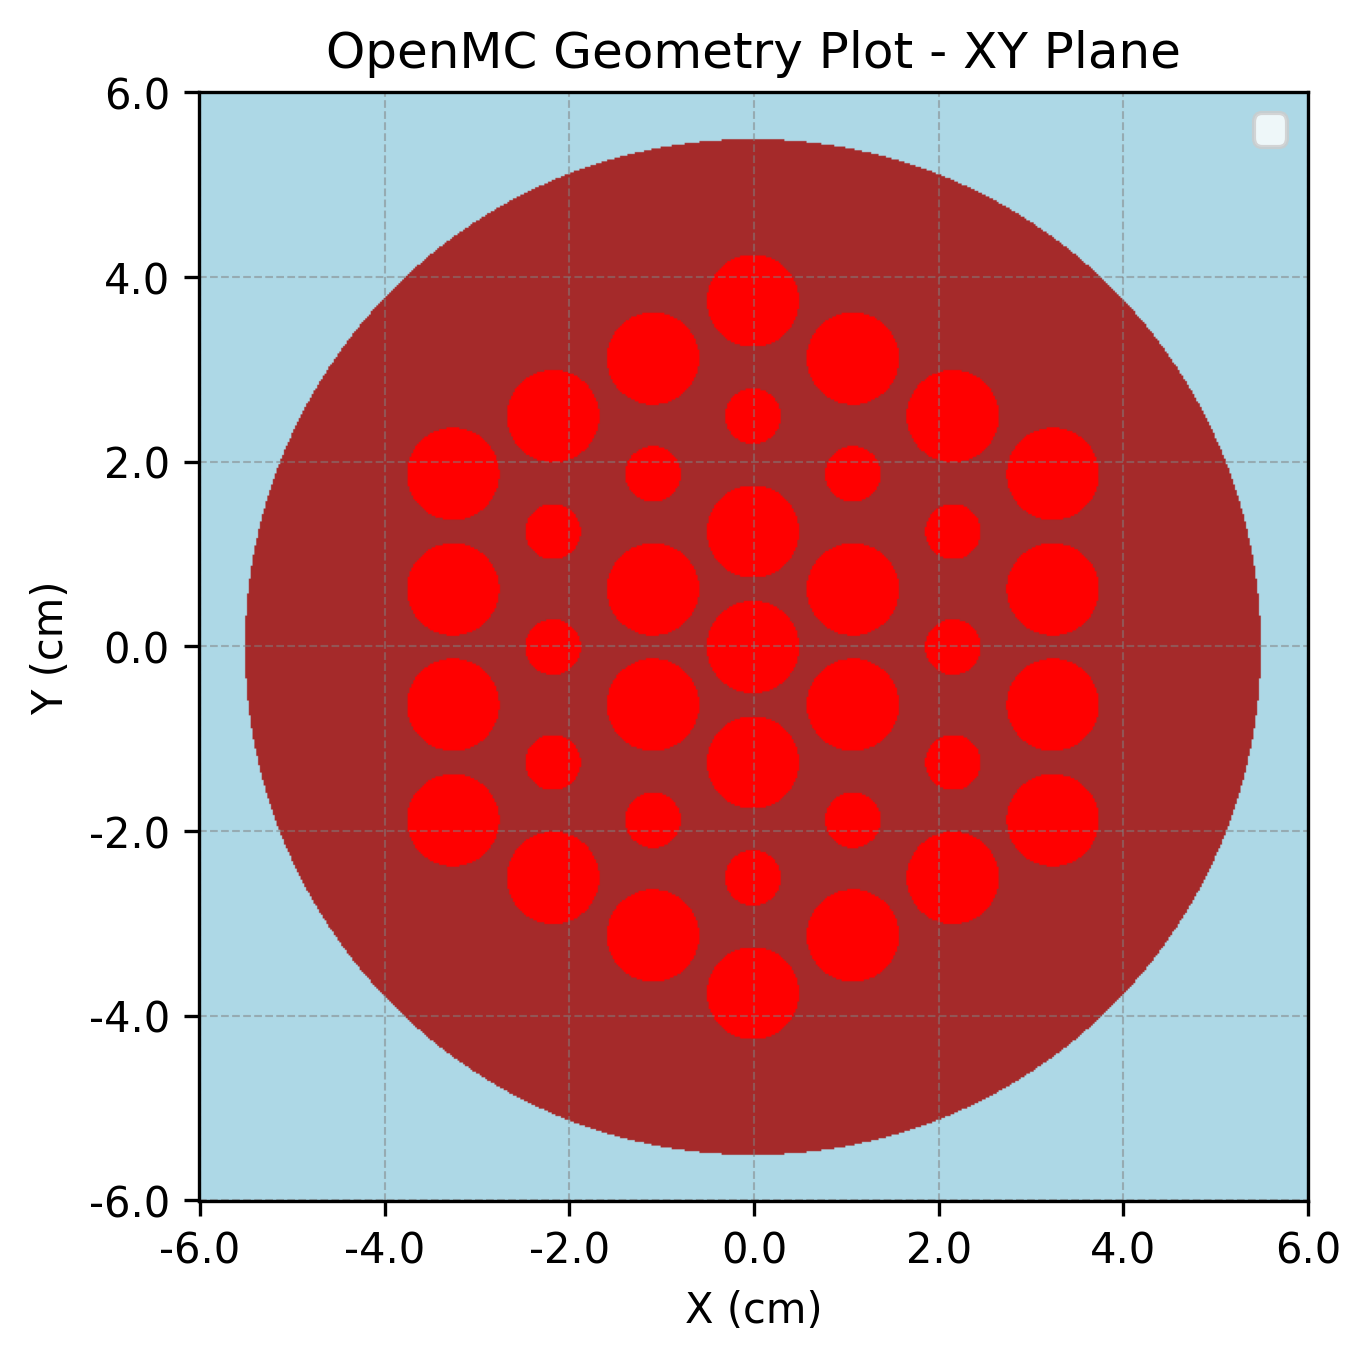
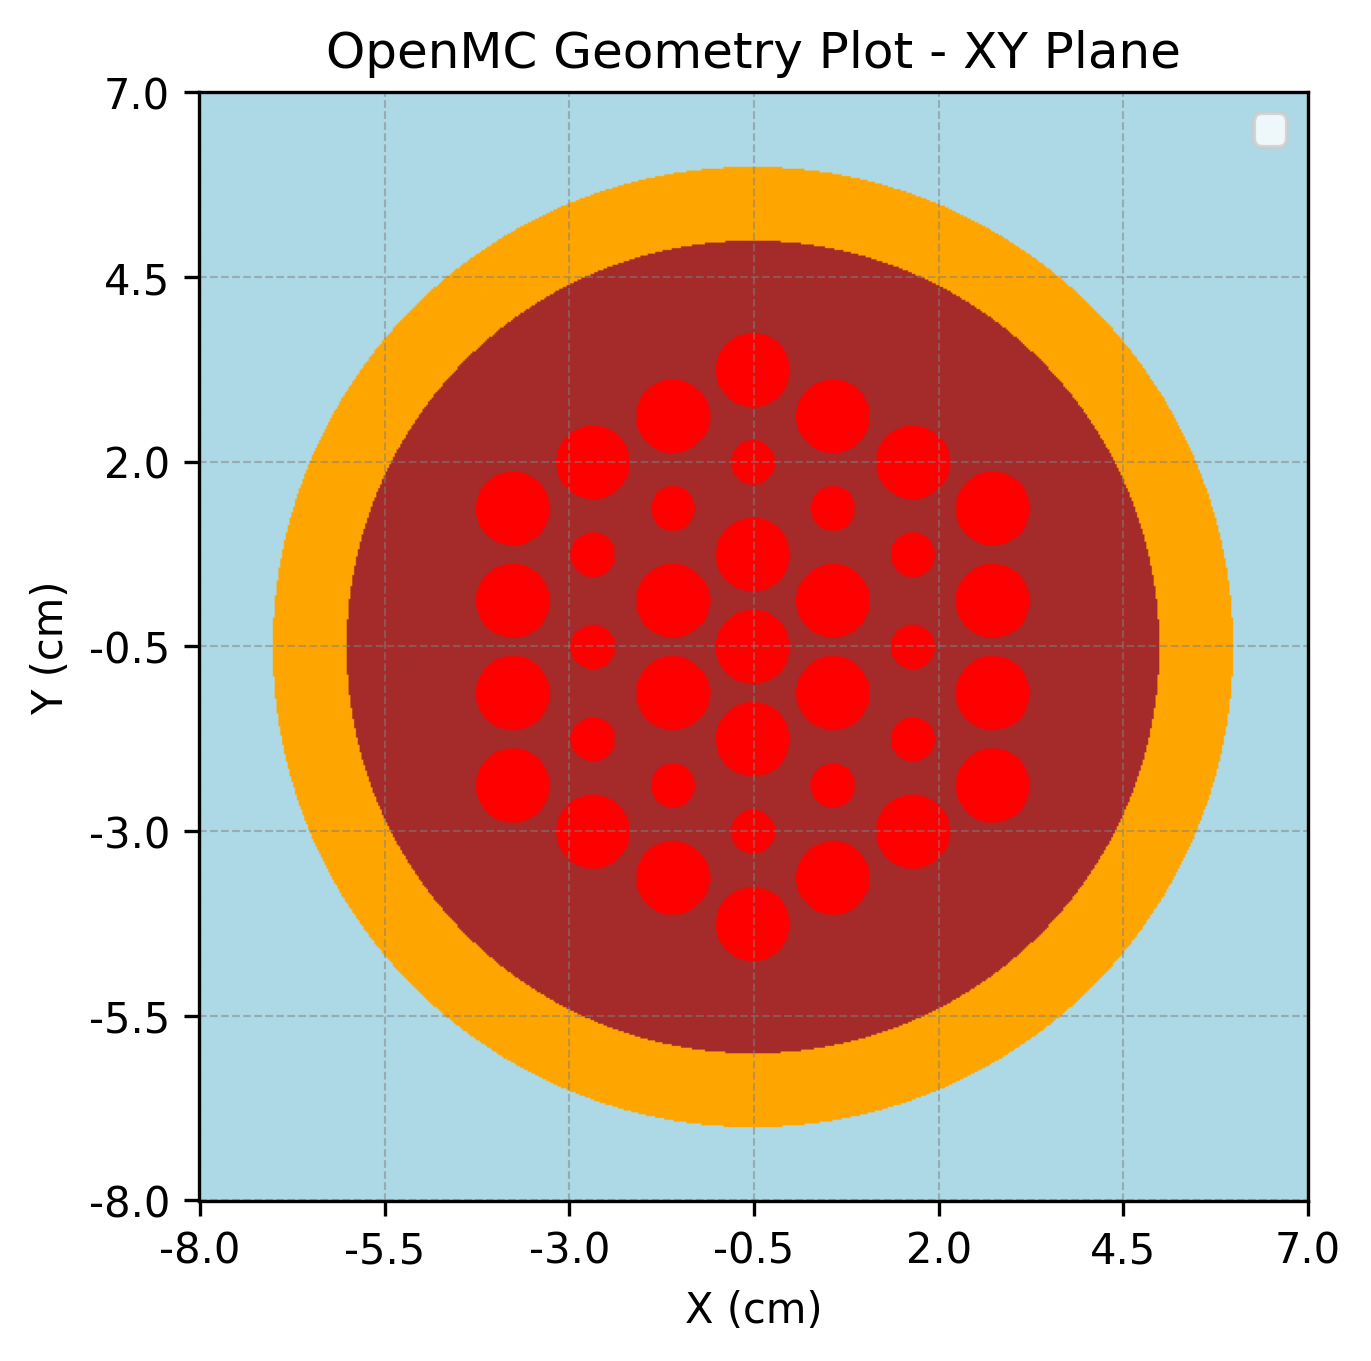
feat:add_plane_mesh_tally

diff --git a/src/studies/lattice_fuel.py/core.py b/src/studies/lattice_fuel.py/core.py
@@ -15,12 +15,11 @@ project_root = Path(__file__).resolve().parents[3]
 sys.path.append(str(project_root))
 from parameters.parameters_paths import PATH_TO_CROSS_SECTIONS
 from parameters.parameters_materials import FUEL_MATERIAL, HELIUM_MATERIAL, AIR_MATERIAL, CONCRETE_MATERIAL, GRAPHITE_MATERIAL, STEEL_MATERIAL
-from src.utils.pre_processing.pre_processing import remove_previous_results, parallelepiped, plot_geometry, mesh_tally
+from src.utils.pre_processing.pre_processing import remove_previous_results, parallelepiped, plot_geometry, mesh_tally_xy, mesh_tally_yz
 from src.utils.post_preocessing.post_processing import load_mesh_tally
 os.environ["OPENMC_CROSS_SECTIONS"] = PATH_TO_CROSS_SECTIONS
 
 material = openmc.Materials([FUEL_MATERIAL, HELIUM_MATERIAL, AIR_MATERIAL, CONCRETE_MATERIAL, GRAPHITE_MATERIAL, STEEL_MATERIAL])
-
 
 r_pin = openmc.ZCylinder(r=0.3)
 fuel_cell = openmc.Cell(fill=FUEL_MATERIAL, region=-r_pin)
@@ -48,38 +47,45 @@ lat.universes = [
 ]
 
 outer_surface = openmc.ZCylinder(r=5.5)
-height_top = openmc.ZPlane(z0=30.0)
-height_bottom = openmc.ZPlane(z0=-30.0)
+steel_outer_surface = openmc.ZCylinder(r=6.5)  # 1 cm thickness around graphite
+height_top_active_part = openmc.ZPlane(z0=30.0)
+height_bottom_active_part = openmc.ZPlane(z0=-30.0)
+
+# Main cell: lattice inside graphite cylinder
 main_cell = openmc.Cell(
     fill=lat,
-    region=(-outer_surface & -height_top & +height_bottom)
+    region=(-outer_surface & -height_top_active_part & +height_bottom_active_part)
 )
+
+# Steel shell cell: between graphite and steel cylinder
+steel_shell_region = (+outer_surface & -steel_outer_surface & -height_top_active_part & +height_bottom_active_part)
+steel_shell_cell = openmc.Cell(fill=STEEL_MATERIAL, region=steel_shell_region)
 
 outer_sphere = openmc.Sphere(r=100.0, boundary_type='vacuum')
 
 # Air region above the cylinder
-air_region_above = -outer_sphere & -height_top
+air_region_above = -outer_sphere & -height_top_active_part
 air_cell_above = openmc.Cell(fill=AIR_MATERIAL, region=air_region_above)
 
 # Air region below the cylinder
-air_region_below = -outer_sphere & +height_bottom
+air_region_below = -outer_sphere & +height_bottom_active_part
 air_cell_below = openmc.Cell(fill=AIR_MATERIAL, region=air_region_below)
 
-# Air region surrounding the cylinder (radially outside)
-air_region_side = -outer_sphere & +outer_surface & -height_top & +height_bottom
+# Air region surrounding the steel cylinder (radially outside)
+air_region_side = -outer_sphere & +steel_outer_surface & -height_top_active_part & +height_bottom_active_part
 air_cell_side = openmc.Cell(fill=AIR_MATERIAL, region=air_region_side)
 
-geometry = openmc.Geometry([main_cell, air_cell_above, air_cell_below, air_cell_side])
+geometry = openmc.Geometry([main_cell, steel_shell_cell, air_cell_above, air_cell_below, air_cell_side])
 
-plot_geometry(materials = material, plane="xy", width=12, height=12)
+plot_geometry(materials = material, plane="xy", width=15, height=15)
 
-plot_geometry(materials = material, plane="xz", width=12, height=12)
+plot_geometry(materials = material, plane="xz", width=15, height=15)
 
 plot_geometry(materials = material, plane="yz", width=70, height=70)
 
 # Calcul de criticité simple 
 settings = openmc.Settings()
-batches_number= 100
+batches_number= 500
 settings.batches = batches_number
 settings.inactive = 20
 settings.particles = 10000
@@ -93,14 +99,37 @@ settings.source.angle = openmc.stats.Isotropic()
 tally = openmc.Tally(name="flux_tally")
 tally.scores = ['flux']
 tally.filters = [openmc.CellFilter(main_cell)]
-tallies = openmc.Tallies([tally])
+
+# Tally for fission rate
+fission_tally = openmc.Tally(name="fission_rate_tally")
+fission_tally.scores = ['fission']
+fission_tally.filters = [openmc.CellFilter(main_cell)]
+
+# Tally for nu-fission (nu * fission rate)
+nu_fission_tally = openmc.Tally(name="nu_fission_rate_tally")
+nu_fission_tally.scores = ['nu-fission']
+nu_fission_tally.filters = [openmc.CellFilter(main_cell)]
+
+tallies = openmc.Tallies([tally, fission_tally, nu_fission_tally])
 
 # Mesh tally for neutron flux in a specific region
-mesh_tally_neutron = mesh_tally(name_mesh_tally = "flux_mesh_neutrons", particule_type='neutron', bin_number=400, lower_left=(-10.0, -10.0), upper_right=(10.0, 10.0))
-tallies.append(mesh_tally_neutron)
+mesh_tally_neutron_xy = mesh_tally_xy(name_mesh_tally = "flux_mesh_neutrons_xy", particule_type='neutron', 
+                                      bin_number=400, lower_left=(-10.0, -10.0), upper_right=(10.0, 10.0),
+                                      z_thickness= 4.0, z_value=0.0)
+tallies.append(mesh_tally_neutron_xy)
 
-mesh_tally_photon = mesh_tally(name_mesh_tally = "flux_mesh_photons", particule_type='photon', bin_number=400, lower_left=(-10.0, -10.0), upper_right=(10.0, 10.0))
-tallies.append(mesh_tally_photon)
+mesh_tally_photon_xy = mesh_tally_xy(name_mesh_tally = "flux_mesh_photons_xy", particule_type='photon', 
+                                     bin_number=400, lower_left=(-10.0, -10.0), upper_right=(10.0, 10.0),
+                                     z_thickness= 4.0, z_value=0.0)
+tallies.append(mesh_tally_photon_xy)
+
+mesh_tally_neutron_yz = mesh_tally_yz(name_mesh_tally = "flux_mesh_neutrons_yz", particule_type='neutron', 
+                                      bin_number=1000, lower_left=(-10.0, -10.0), upper_right=(10.0, 10.0))
+tallies.append(mesh_tally_neutron_yz)
+
+mesh_tally_photon_yz = mesh_tally_yz(name_mesh_tally = "flux_mesh_photons_yz", particule_type='photon', 
+                                     bin_number=1000, lower_left=(-10.0, -10.0), upper_right=(10.0, 10.0))
+tallies.append(mesh_tally_photon_yz)
 
 
 geometry.export_to_xml()
@@ -115,15 +144,37 @@ openmc.run()
 # Load the statepoint file
 statepoint_file = openmc.StatePoint(f'statepoint.{batches_number}.h5')
 tally = statepoint_file.get_tally(name="flux_tally")
-mean_flux = tally.mean.flatten()
-std_flux = tally.std_dev.flatten()
-print(f"Mean flux: {mean_flux}")
-print(f"Standard deviation of flux: {std_flux}")
+mean_flux = tally.mean.flatten().tolist()
+std_flux = tally.std_dev.flatten().tolist()
 
+# Get fission rate and nu-bar
+fission_tally_result = statepoint_file.get_tally(name="fission_rate_tally")
+nu_fission_tally_result = statepoint_file.get_tally(name="nu_fission_rate_tally")
+
+fission_rate = float(fission_tally_result.mean.flatten()[0])
+nu_fission_rate = float(nu_fission_tally_result.mean.flatten()[0])
+nu_bar = nu_fission_rate / fission_rate if fission_rate != 0 else float('nan')
+
+results = {
+    "mean_flux": mean_flux,
+    "std_flux": std_flux,
+    "fission_rate": fission_rate,
+    "nu_fission_rate": nu_fission_rate,
+    "nu_bar": nu_bar
+}
+
+with open(CWD / "simulation_results.json", "w") as f:
+    json.dump(results, f, indent=2)
 
 ### mesh tallty ####
-# Récupérer le tally du maillage
 
-load_mesh_tally(cwd = CWD, statepoint_file = statepoint_file, name_mesh_tally="flux_mesh_neutrons")
+load_mesh_tally(cwd = CWD, statepoint_file = statepoint_file, name_mesh_tally="flux_mesh_neutrons_xy")
 
-load_mesh_tally(cwd = CWD, statepoint_file = statepoint_file, name_mesh_tally="flux_mesh_photons")
+load_mesh_tally(cwd = CWD, statepoint_file = statepoint_file, name_mesh_tally="flux_mesh_photons_xy")
+
+
+load_mesh_tally(cwd = CWD, statepoint_file = statepoint_file, name_mesh_tally="flux_mesh_neutrons_yz", bin_number=1000,
+                lower_left=(-40.0, -40.0), upper_right=(40.0, 40.0), zoom_x=(-40, 40), zoom_y=(-40, 40), plane="yz")
+
+load_mesh_tally(cwd = CWD, statepoint_file = statepoint_file, name_mesh_tally="flux_mesh_photons_yz", bin_number=1000,
+                lower_left=(-40.0, -40.0), upper_right=(40.0, 40.0), zoom_x=(-40, 40), zoom_y=(-40, 40), plane="yz")

diff --git a/src/utils/pre_processing/pre_processing.py b/src/utils/pre_processing/pre_processing.py
@@ -43,7 +43,8 @@ def parallelepiped(xmin, xmax, ymin, ymax, zmin, zmax, surface_id_start=10):
 def plot_geometry(materials:list, plane:str="xy", 
                   width: float = 10.0, height: float = 10.0, 
                   origin: tuple = (0, 0, 0), 
-                  pixels: tuple = (600, 600)):
+                  pixels: tuple = (600, 600), 
+                  dpi: int = 300):
     """
     Plots the OpenMC geometry in a plane.
     """
@@ -82,22 +83,127 @@ def plot_geometry(materials:list, plane:str="xy",
         np.linspace(0, img.size[1], num=7),
         [f"{y:.1f}" for y in np.linspace(np.min(Y_VALUES), np.max(Y_VALUES), num=7)]
     )
-    plt.xlabel("X (cm)")
-    plt.ylabel("Y (cm)")
+    if plane == "xy":
+        plt.xlabel("X (cm)")
+        plt.ylabel("Y (cm)")
+    elif plane == "xz":
+        plt.xlabel("X (cm)")
+        plt.ylabel("Z (cm)")
+    elif plane == "yz":
+        plt.xlabel("Y (cm)")
+        plt.ylabel("Z (cm)")
+    else:
+        raise ValueError("plane must be 'xy', 'xz', or 'yz'")
+    
     plt.gca().invert_yaxis()
     plt.legend()
-    plt.savefig("plot_" + plane + ".png", dpi=300, bbox_inches='tight')
+    plt.savefig("plot_" + plane + ".png", dpi=dpi, bbox_inches='tight')
+    # remove the openmc plot file
+    os.remove(plot.filename)
     plt.tight_layout()
     plt.show()
 
+def mesh_tally_xy(
+    name_mesh_tally="flux_mesh",
+    particule_type='neutrons',
+    bin_number=400,
+    lower_left=(-50.0, -50.0),
+    upper_right=(50.0, 50.0),
+    z_value:float = 0.0,
+    z_thickness:float = 1.0
+    )-> object:
+    """
+    Create a mesh tally in the XY plane at a specified Z value.
 
-def mesh_tally(name_mesh_tally = "flux_mesh", particule_type='neutrons', 
-               bin_number=400, lower_left=(-50.0, -50.0), upper_right=(50.0, 50.0)):
-    # Mesh tally de dose 
+    Parameters:
+        name_mesh_tally (str): Name of the tally.
+        particule_type (str): Particle type.
+        bin_number (int): Number of bins in each direction.
+        lower_left (tuple): Lower left corner of the mesh (x, y).
+        upper_right (tuple): Upper right corner of the mesh (x, y).
+        z_value (float): Z coordinate of the mesh center.
+        z_thickness (float): Thickness of the mesh in the Z direction.
+
+    Returns:
+        openmc.Tally: The mesh tally object.
+    """
     mesh = openmc.RegularMesh()
-    mesh.dimension = [bin_number, bin_number]  # XY
-    mesh.lower_left = lower_left
-    mesh.upper_right = upper_right
+    mesh.dimension = [bin_number, bin_number, 1]
+    mesh.lower_left = (lower_left[0], lower_left[1], z_value - z_thickness / 2)
+    mesh.upper_right = (upper_right[0], upper_right[1], z_value + z_thickness / 2)
+
+    mesh_filter = openmc.MeshFilter(mesh)
+    mesh_tally = openmc.Tally(name=name_mesh_tally)
+    particle_filter = openmc.ParticleFilter([particule_type])
+    mesh_tally.filters = [mesh_filter, particle_filter]
+    mesh_tally.scores = ['flux']
+    return mesh_tally
+
+def mesh_tally_xz(
+    name_mesh_tally="flux_mesh",
+    particule_type='neutrons',
+    bin_number=400,
+    lower_left=(-50.0, -50.0),
+    upper_right=(50.0, 50.0),
+    y_value:float = 0.0,
+    y_thickness:float = 1.0
+    )-> object:
+    """
+    Create a mesh tally in the XZ plane at a specified Y value.
+
+    Parameters:
+        name_mesh_tally (str): Name of the tally.
+        particule_type (str): Particle type.
+        bin_number (int): Number of bins in each direction.
+        lower_left (tuple): Lower left corner of the mesh (x, z).
+        upper_right (tuple): Upper right corner of the mesh (x, z).
+        y_value (float): Y coordinate of the mesh center.
+        y_thickness (float): Thickness of the mesh in the Y direction.
+
+    Returns:
+        openmc.Tally: The mesh tally object.
+    """
+    mesh = openmc.RegularMesh()
+    mesh.dimension = [bin_number, 1, bin_number]
+    mesh.lower_left = (lower_left[0], y_value - y_thickness / 2, lower_left[1])
+    mesh.upper_right = (upper_right[0], y_value + y_thickness / 2, upper_right[1])
+
+    mesh_filter = openmc.MeshFilter(mesh)
+    mesh_tally = openmc.Tally(name=name_mesh_tally)
+    particle_filter = openmc.ParticleFilter([particule_type])
+    mesh_tally.filters = [mesh_filter, particle_filter]
+    mesh_tally.scores = ['flux']
+    return mesh_tally
+
+
+def mesh_tally_yz(
+    name_mesh_tally="flux_mesh",
+    particule_type='neutrons',
+    bin_number=400,
+    lower_left=(-50.0, -50.0),
+    upper_right=(50.0, 50.0),
+    x_value:float = 0.0,
+    x_thickness:float = 1.0
+    )-> object:
+    """
+    Create a mesh tally in the YZ plane at a specified X value.
+
+    Parameters:
+        name_mesh_tally (str): Name of the tally.
+        particule_type (str): Particle type.
+        bin_number (int): Number of bins in each direction.
+        lower_left (tuple): Lower left corner of the mesh (y, z).
+        upper_right (tuple): Upper right corner of the mesh (y, z).
+        x_value (float): X coordinate of the mesh center.
+        x_thickness (float): Thickness of the mesh in the X direction.
+
+    Returns:
+        openmc.Tally: The mesh tally object.
+    """
+    mesh = openmc.RegularMesh()
+    mesh.dimension = [1, bin_number, bin_number]
+    mesh.lower_left = (x_value - x_thickness / 2, lower_left[0], lower_left[1])
+    mesh.upper_right = (x_value + x_thickness / 2, upper_right[0], upper_right[1])
 
     mesh_filter = openmc.MeshFilter(mesh)
     mesh_tally = openmc.Tally(name=name_mesh_tally)

diff --git a/src/utils/post_preocessing/post_processing.py b/src/utils/post_preocessing/post_processing.py
@@ -15,7 +15,7 @@ def print_calculation_finished():
 def load_mesh_tally(cwd, statepoint_file: object, name_mesh_tally:str = "flux_mesh_tally", 
                     bin_number:int=400, lower_left:tuple=(-10.0, -10.0), 
                     upper_right:tuple=(10.0, 10.0), zoom_x:tuple=(-10, 10), 
-                    zoom_y:tuple=(-10.0, 10.0)):
+                    zoom_y:tuple=(-10.0, 10.0), plane:str = "xy",):
     """
     Load and plot the mesh tally from the statepoint file.
 
@@ -41,9 +41,20 @@ def load_mesh_tally(cwd, statepoint_file: object, name_mesh_tally:str = "flux_me
             cmap='plasma',
             norm=LogNorm(vmin=np.min(flux_data[flux_data!=0]), vmax=flux_data.max()))  
     plt.colorbar(label='Flux [a.u.] (log scale)')
-    plt.title('Carte de flux XY (échelle log)')
-    plt.xlabel('X [cm]')
-    plt.ylabel('Y [cm]')
+    if plane == "xy":
+        plt.title('Carte de flux XY (échelle log)')
+        plt.xlabel('X [cm]')
+        plt.ylabel('Y [cm]')
+    elif plane == "xz":
+        plt.title('Carte de flux XZ (échelle log)')
+        plt.xlabel('X [cm]')
+        plt.ylabel('Z [cm]')
+    elif plane == "yz":
+        plt.title('Carte de flux YZ (échelle log)')
+        plt.xlabel('Y [cm]')
+        plt.ylabel('Z [cm]')
+    else:
+        raise ValueError("plane must be 'xy', 'xz', or 'yz'")
     plt.tight_layout()
     plt.xlim(zoom_x[0], zoom_x[1])
     plt.ylim(zoom_y[0], zoom_y[1])
